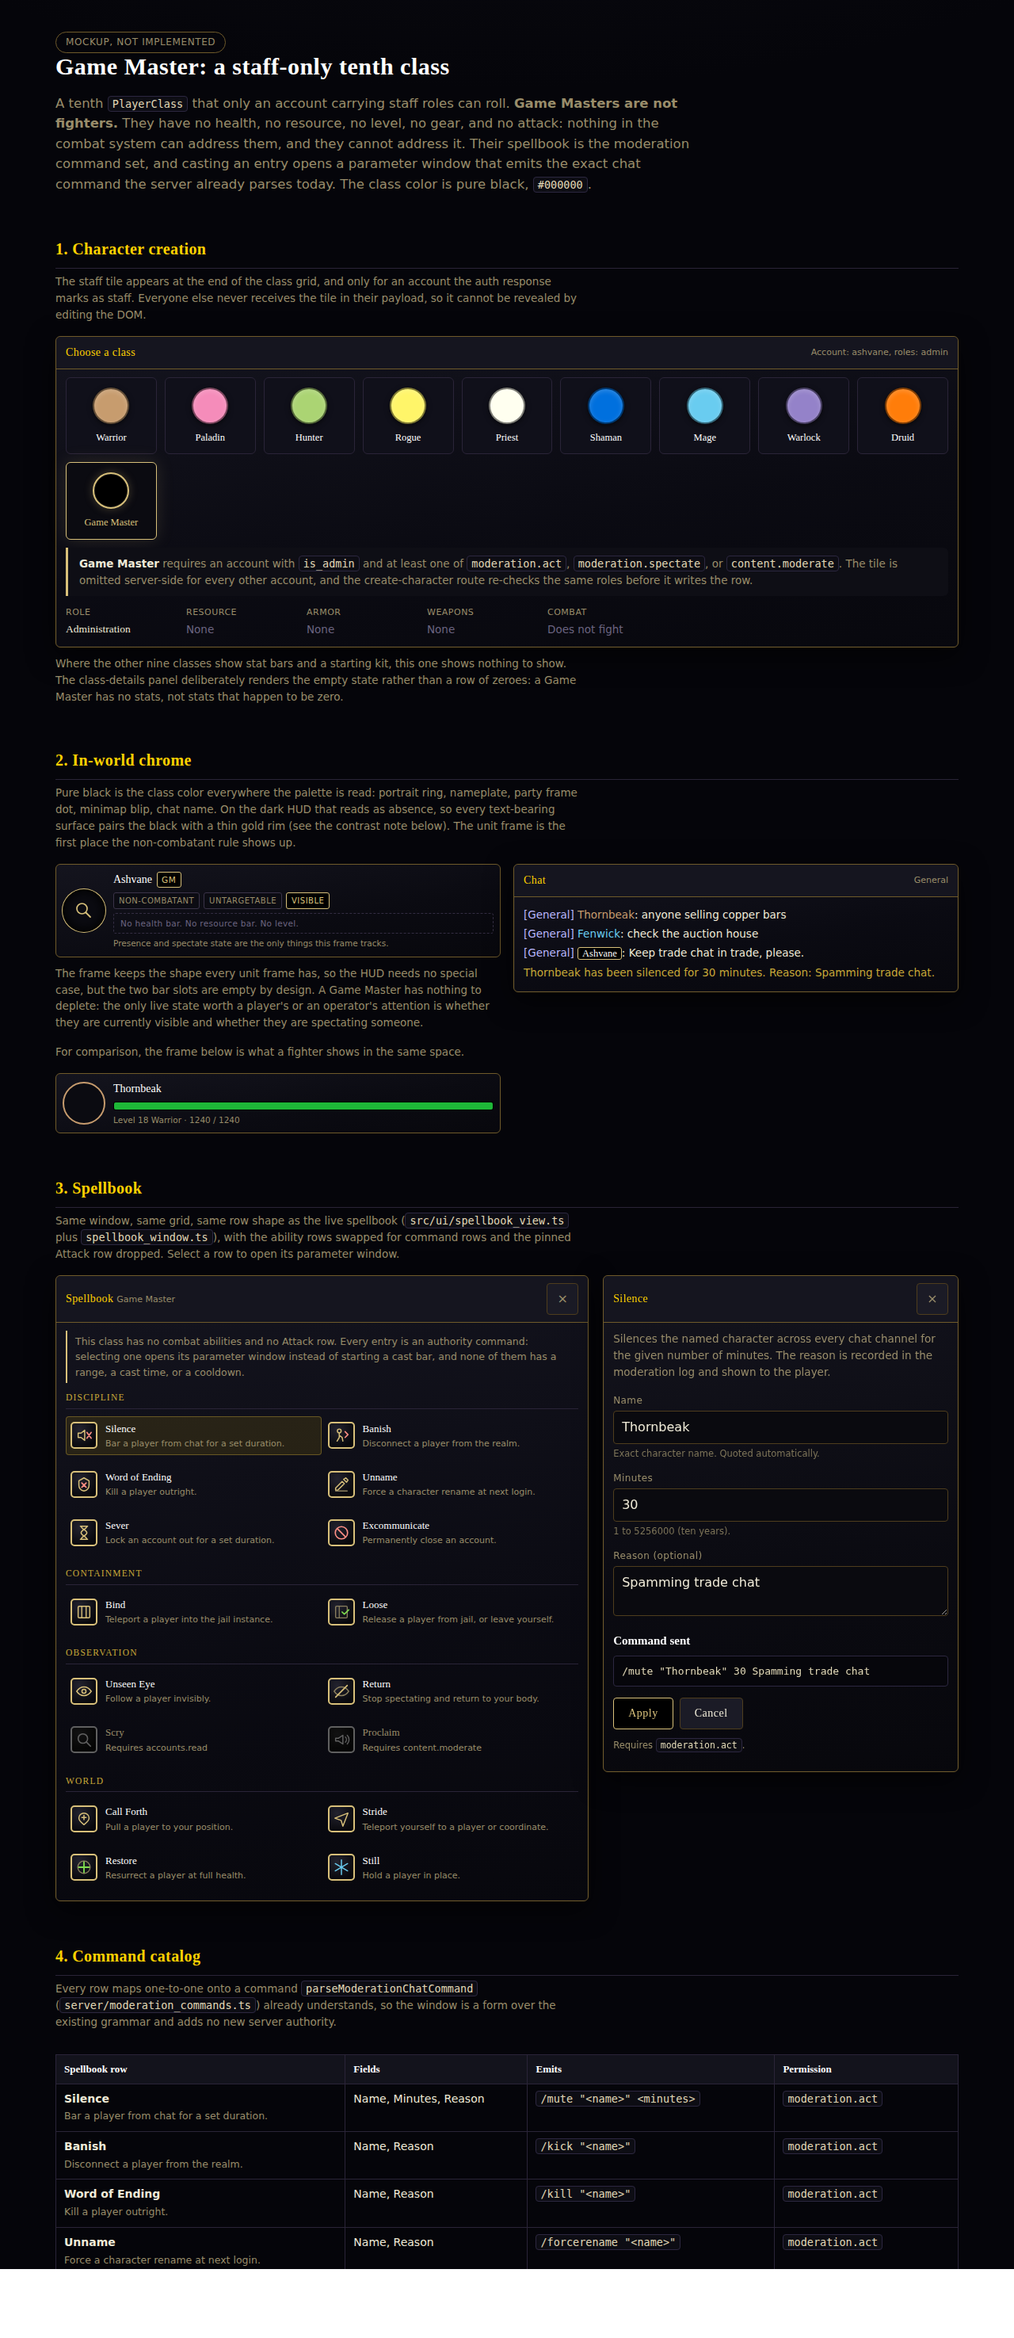
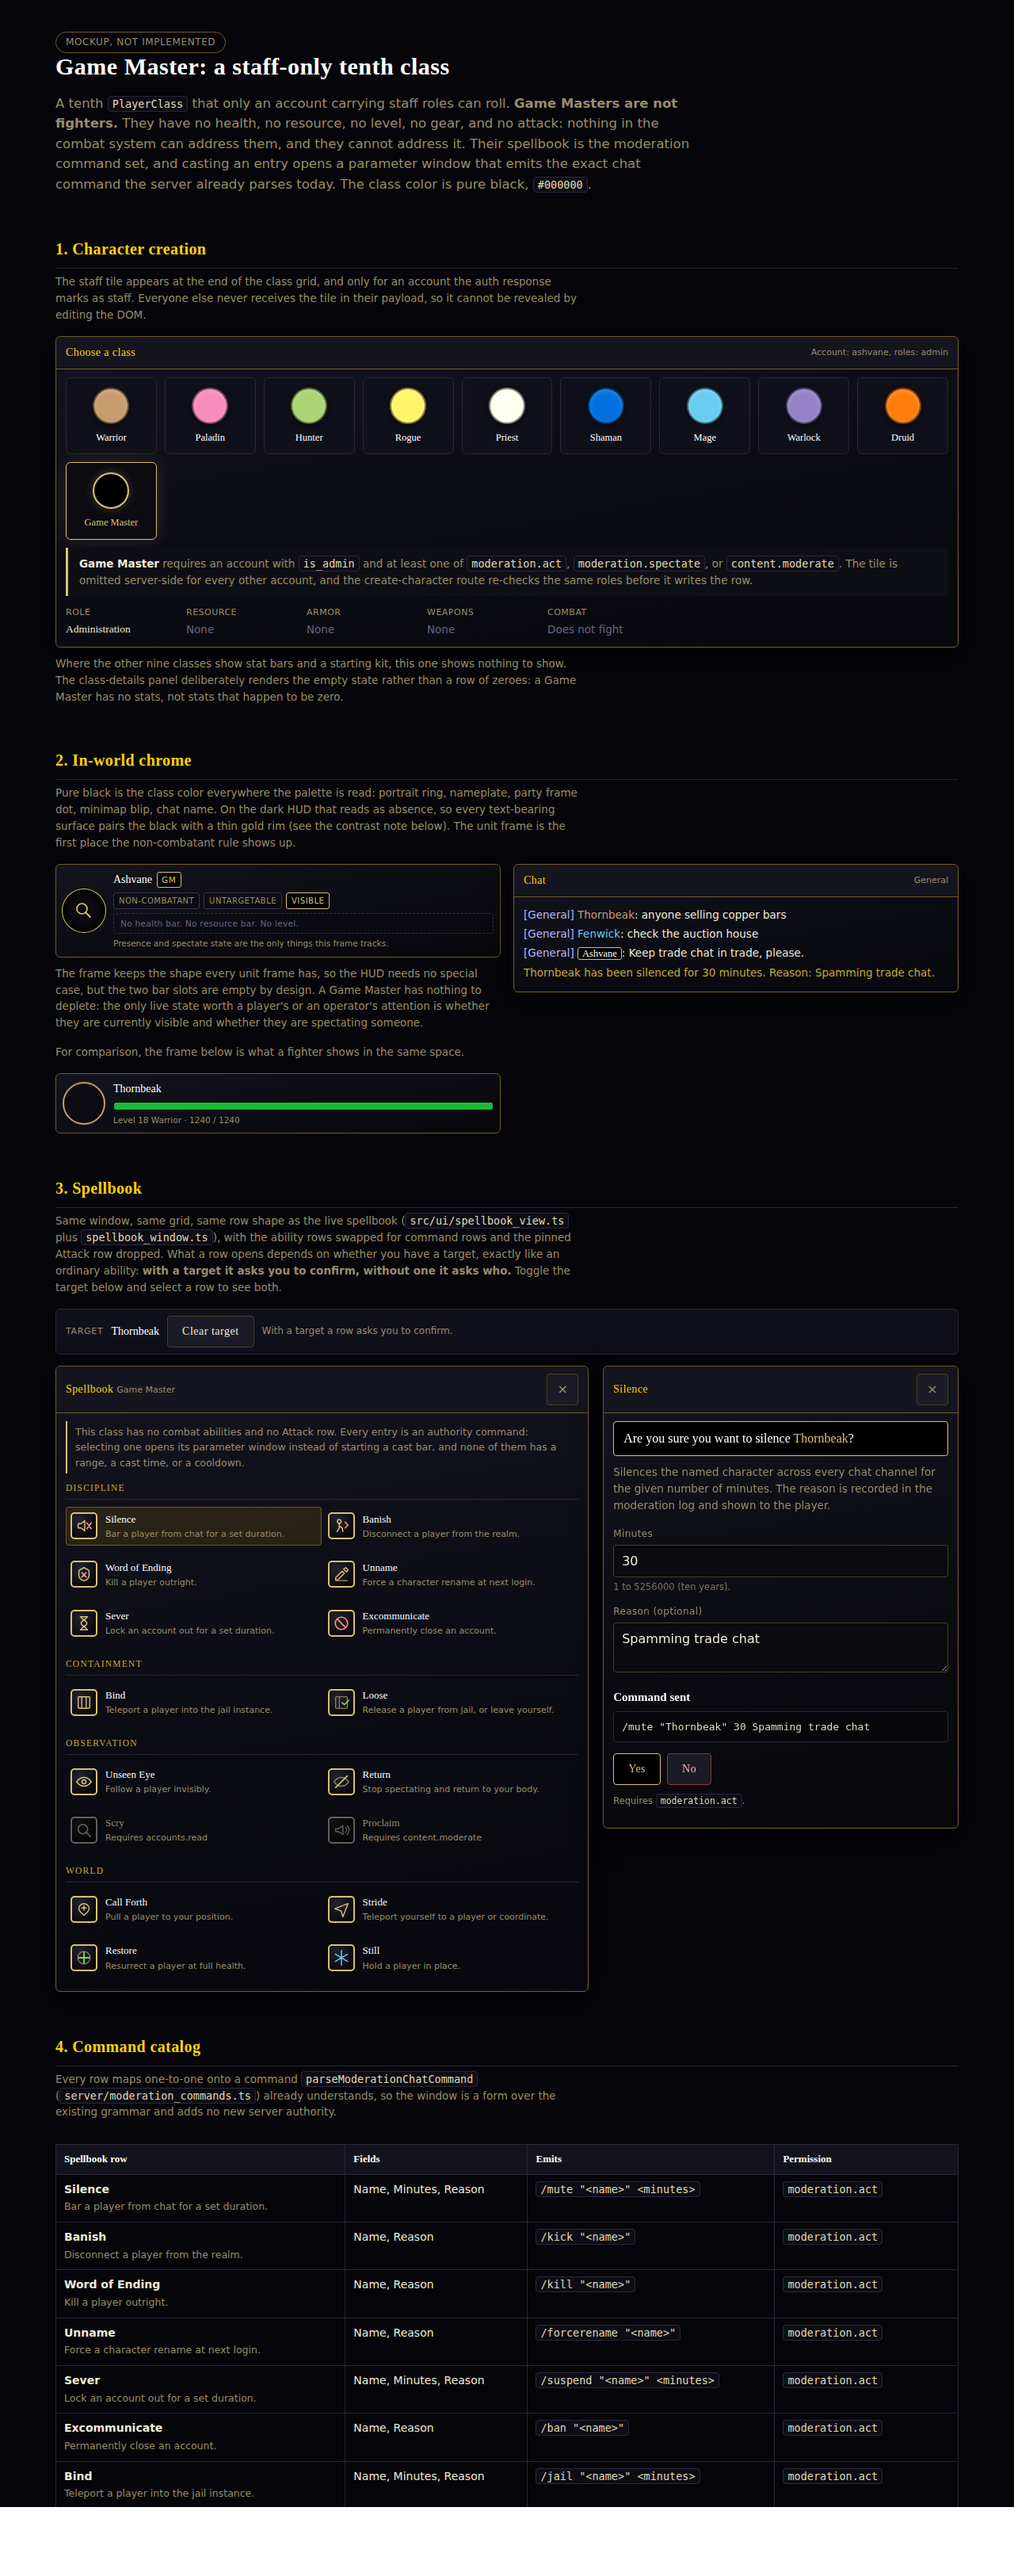
feat(docs): confirm against the target in the Game Master mockup
A command row now reads the target the way an ordinary ability does. With
a player targeted, selecting a row opens the window on a question, "Are
you sure you want to silence Thornbeak?", answered by Yes and No. The
Name field is not rendered at all, since the target already answered it;
rows that still need a duration keep those fields under the question.
With no target the window is the plain form, asking who to act on.

Adds a target strip above the two panels so both flows can be walked
without a running game, and makes the confirm flag on Excommunicate real:
submitting its untargeted form no longer sends, it turns into the same
question naming the player just typed. That flag previously only produced
a line of copy promising a confirmation that nothing implemented.

Rows naming no player (Return, Proclaim) never show the question, since
there is nothing for a target to disambiguate. Records the one case still
worth changing: Return takes no arguments yet still opens a window whose
only content says so, where a zero-argument row should just fire.

Verified in headless Chromium across both flows: the targeted path for
mute, kill, spectate, ban, jail and kick asks the right question and
drops the Name field, No reports the cancel naming the target, the
untargeted path restores the form, and the untargeted ban runs its
two-step confirm before sending. Biome reports zero diagnostics.

Claude-Session: https://claude.ai/code/session_012bGQz4hsnH1YFBGZWnVcjq

diff --git a/docs/design/game-master-class.html b/docs/design/game-master-class.html
@@ -215,8 +215,30 @@
   .spell-row.locked .spell-icon { filter: grayscale(1) brightness(0.5); }
   .spell-row.locked .spell-name { color: var(--color-text-muted); }
 
+  /* the target strip that drives which view a row opens */
+  .target-bar {
+    display: flex; flex-wrap: wrap; align-items: center; gap: 10px;
+    background: #10101a; border: 1px solid #2a2438; border-radius: 6px;
+    padding: 8px 12px; margin: 0 0 14px;
+  }
+  .target-label { font-size: 11px; letter-spacing: 0.7px; text-transform: uppercase; color: var(--color-text-muted); }
+  .target-name { font-family: var(--font-display); font-size: 14px; color: #fff; }
+  .target-name.none { color: #6b6480; font-family: var(--font-ui); font-size: 13px; }
+  .target-hint { font-size: 12px; color: var(--color-text-muted); }
+
   /* the parameter window a command opens */
   .cmd-window { position: sticky; top: 18px; }
+  .confirm-question {
+    font-family: var(--font-display); font-size: 16px; line-height: 1.4; color: #fff;
+    margin: 0 0 10px; padding: 10px 12px; border-radius: 4px;
+    background: var(--gm-black); border: 1px solid var(--gm-rim);
+  }
+  .confirm-question .who { color: var(--gm-rim); }
+  .confirm-question[hidden] { display: none; }
+  .btn.yes { background: var(--gm-black); color: var(--gm-rim); border-color: var(--gm-rim); }
+  .btn.yes:hover { background: #111; color: #fff; }
+  .btn.danger { border-color: #8c3b32; color: #ffb3aa; }
+  .btn.danger:hover { background: #1a0e0d; border-color: var(--color-text-error); color: #fff; }
   .field { margin: 0 0 12px; }
   .field label { display: block; font-size: 12px; letter-spacing: 0.4px; color: var(--color-text-muted); margin-bottom: 4px; }
   .field input, .field textarea, .field select {
@@ -393,8 +415,16 @@
   <p class="cap">
     Same window, same grid, same row shape as the live spellbook (<code>src/ui/spellbook_view.ts</code>
     plus <code>spellbook_window.ts</code>), with the ability rows swapped for command rows and the
-    pinned Attack row dropped. Select a row to open its parameter window.
+    pinned Attack row dropped. What a row opens depends on whether you have a target, exactly like
+    an ordinary ability: <strong>with a target it asks you to confirm, without one it asks who.</strong>
+    Toggle the target below and select a row to see both.
   </p>
+  <div class="target-bar">
+    <span class="target-label">Target</span>
+    <span class="target-name" id="target-name">Thornbeak</span>
+    <button type="button" class="btn" id="target-toggle">Clear target</button>
+    <span class="target-hint" id="target-hint"></span>
+  </div>
   <div class="book-layout">
     <div class="panel">
       <div class="panel-title">
@@ -414,6 +444,7 @@
         <span id="cmd-title">Silence</span>
         <button type="button" class="x-btn" aria-label="Close command window" id="cmd-close">&times;</button>
       </div>
+      <p class="confirm-question" id="cmd-question" hidden></p>
       <p class="cap" id="cmd-desc" style="margin-top:0"></p>
       <form id="cmd-form" novalidate></form>
       <h3 style="margin:6px 0 6px">Command sent</h3>
@@ -495,6 +526,36 @@
       predicate the combat, threat, loot, and queue paths each ask once.</li>
   </ul>
 
+  <h3>Two ways a row opens, decided by the target</h3>
+  <p>
+    A command that acts on a player (any row with a Name field) reads the target the same way an
+    ordinary ability does:
+  </p>
+  <ul>
+    <li><strong>With a target:</strong> the window leads with "Are you sure you want to silence
+      Thornbeak?" and the buttons are Yes and No. The Name field is not rendered at all, because the
+      target already answered it. Rows that still need a duration (Silence, Bind, Sever, Still) keep
+      those fields under the question; everything else is a straight yes or no.</li>
+    <li><strong>With no target:</strong> the window is the plain form, asking who to act on, with
+      Apply and Cancel.</li>
+    <li><strong>Irreversible rows ask either way.</strong> Excommunicate carries a confirm flag, so
+      submitting its untargeted form does not send: it turns into the same question, naming the
+      player just typed. That flag is honored in both paths rather than being copy that promises a
+      confirmation nothing implements.</li>
+  </ul>
+  <p>
+    Rows that name no player (Return, Proclaim) never show the question, since there is nothing for
+    a target to disambiguate.
+  </p>
+  <div class="callout">
+    <p style="margin:0">
+      Still open: Return takes no arguments at all, yet selecting it opens a window whose only content
+      is "This command takes no arguments." A zero-argument row should almost certainly just fire on
+      click like an instant ability, and the window should be reserved for rows that have something
+      to ask.
+    </p>
+  </div>
+
   <h3>Open question: what does the world see</h3>
   <p>
     A Game Master who cannot be attacked and cannot be targeted is close to a ghost, which raises a
@@ -546,6 +607,7 @@
     {
       id: 'mute', cat: 'Discipline', glyph: 'gl-mute', name: 'Silence',
       sub: 'Bar a player from chat for a set duration.',
+      verb: 'silence',
       desc: 'Silences the named character across every chat channel for the given number of minutes. The reason is recorded in the moderation log and shown to the player.',
       perm: 'moderation.act',
       fields: [
@@ -559,6 +621,7 @@
     {
       id: 'kick', cat: 'Discipline', glyph: 'gl-kick', name: 'Banish',
       sub: 'Disconnect a player from the realm.',
+      verb: 'disconnect',
       desc: 'Ends the character session immediately. The account may log back in at once; use Suspend for a timed lockout.',
       perm: 'moderation.act',
       fields: [
@@ -571,6 +634,7 @@
     {
       id: 'kill', cat: 'Discipline', glyph: 'gl-kill', name: 'Word of Ending',
       sub: 'Kill a player outright.',
+      verb: 'strike down',
       desc: 'Sets the named character to zero health at once, bypassing every mitigation path. This is an administrative action, not an attack: it resolves through the moderation path, has no range or line of sight, and never puts the Game Master in combat.',
       perm: 'moderation.act',
       fields: [
@@ -583,6 +647,7 @@
     {
       id: 'forcerename', cat: 'Discipline', glyph: 'gl-rename', name: 'Unname',
       sub: 'Force a character rename at next login.',
+      verb: 'force a rename on',
       desc: 'Flags the character so the next login requires a new name. Used for names that breach the naming policy.',
       perm: 'moderation.act',
       fields: [
@@ -595,6 +660,7 @@
     {
       id: 'suspend', cat: 'Discipline', glyph: 'gl-suspend', name: 'Sever',
       sub: 'Lock an account out for a set duration.',
+      verb: 'suspend',
       desc: 'Suspends the whole account, not just the character, for the given number of minutes. Refused against another staff account.',
       perm: 'moderation.act',
       fields: [
@@ -608,6 +674,7 @@
     {
       id: 'ban', cat: 'Discipline', glyph: 'gl-ban', name: 'Excommunicate',
       sub: 'Permanently close an account.',
+      verb: 'ban',
       desc: 'Permanent account ban. Refused against another staff account, and always confirmed before it is sent.',
       perm: 'moderation.act', confirm: true,
       fields: [
@@ -620,6 +687,7 @@
     {
       id: 'jail', cat: 'Containment', glyph: 'gl-jail', name: 'Bind',
       sub: 'Teleport a player into the jail instance.',
+      verb: 'jail',
       desc: 'Moves the character into the jail instance for a sentence in minutes. There is no indefinite form; the duration is required.',
       perm: 'moderation.act',
       fields: [
@@ -633,6 +701,7 @@
     {
       id: 'unjail', cat: 'Containment', glyph: 'gl-unjail', name: 'Loose',
       sub: 'Release a player from jail, or leave yourself.',
+      verb: 'release',
       desc: 'Releases the named character. Leave the field empty to release yourself, which is how a GM exits their own jail visit.',
       perm: 'moderation.act',
       fields: [
@@ -644,6 +713,7 @@
     {
       id: 'spectate', cat: 'Observation', glyph: 'gl-spectate', name: 'Unseen Eye',
       sub: 'Follow a player invisibly.',
+      verb: 'spectate',
       desc: 'Attaches the camera to the named character. The GM stays invisible and untargetable while spectating.',
       perm: 'moderation.spectate',
       fields: [
@@ -664,6 +734,7 @@
     {
       id: 'whois', cat: 'Observation', glyph: 'gl-whois', name: 'Scry',
       sub: 'Read a player account summary.',
+      verb: 'open the account panel for',
       desc: 'Opens the account panel for the named character: recent sanctions, session history, and linked characters. Read-only.',
       perm: 'accounts.read', locked: true, lockNote: 'Requires accounts.read',
       fields: [
@@ -686,6 +757,7 @@
     {
       id: 'summon', cat: 'World', glyph: 'gl-summon', name: 'Call Forth',
       sub: 'Pull a player to your position.',
+      verb: 'summon',
       desc: 'Teleports the named character to the GM. Used to pull a player out of a stuck position or into a conversation.',
       perm: 'moderation.act', dev: true,
       fields: [
@@ -697,6 +769,7 @@
     {
       id: 'goto', cat: 'World', glyph: 'gl-goto', name: 'Stride',
       sub: 'Teleport yourself to a player or coordinate.',
+      verb: 'teleport to',
       desc: 'Moves the GM to the named character, or to a raw world coordinate when the name is left empty.',
       perm: 'moderation.act', dev: true,
       fields: [
@@ -710,6 +783,7 @@
     {
       id: 'revive', cat: 'World', glyph: 'gl-revive', name: 'Restore',
       sub: 'Resurrect a player at full health.',
+      verb: 'revive',
       desc: 'Revives the named character where they stand, at full health and with no resurrection sickness.',
       perm: 'moderation.act', dev: true,
       fields: [
@@ -721,6 +795,7 @@
     {
       id: 'freeze', cat: 'World', glyph: 'gl-freeze', name: 'Still',
       sub: 'Hold a player in place.',
+      verb: 'freeze',
       desc: 'Freezes the named character until released. Used to stop a player mid-exploit while the log is read.',
       perm: 'moderation.act', dev: true,
       fields: [
@@ -739,6 +814,16 @@
   const previewEl = document.getElementById('cmd-preview');
   const permEl = document.getElementById('cmd-perm');
   const toastEl = document.getElementById('cmd-toast');
+  const questionEl = document.getElementById('cmd-question');
+  const applyBtn = document.getElementById('cmd-apply');
+  const cancelBtn = document.getElementById('cmd-cancel');
+  const targetNameEl = document.getElementById('target-name');
+  const targetToggle = document.getElementById('target-toggle');
+  const targetHintEl = document.getElementById('target-hint');
+  /** The GM's current target, or null when nothing is targeted. */
+  let target = 'Thornbeak';
+  /** Values held awaiting a Yes on an untargeted `confirm` command, else null. */
+  let pending = null;
   let active = COMMANDS[0];
 
   function el(tag, cls, text) {
@@ -747,6 +832,28 @@
     if (text !== undefined) node.textContent = text;
     return node;
   }
+
+  /** Player names are untrusted text; the real HUD escapes them the same way. */
+  function esc(value) {
+    return String(value).replace(/[&<>"']/g, (ch) => (
+      { '&': '&amp;', '<': '&lt;', '>': '&gt;', '"': '&quot;', "'": '&#39;' }[ch]
+    ));
+  }
+
+  function renderTargetBar() {
+    targetNameEl.textContent = target === null ? 'No target' : target;
+    targetNameEl.classList.toggle('none', target === null);
+    targetToggle.textContent = target === null ? 'Target Thornbeak' : 'Clear target';
+    targetHintEl.textContent = target === null
+      ? 'Without a target a row asks who to act on.'
+      : 'With a target a row asks you to confirm.';
+  }
+
+  targetToggle.addEventListener('click', () => {
+    target = target === null ? 'Thornbeak' : null;
+    renderTargetBar();
+    select(active);
+  });
 
   // One heading plus one real <ul> per category, so the list is a list to a screen
   // reader without a role attribute standing in for the element.
@@ -793,13 +900,49 @@
     }
   }
 
+  // In confirm mode the name is not an input: it is the target, so read it from
+  // state rather than the (absent) field.
   function values() {
     const out = {};
     active.fields.forEach((f) => {
+      if (f.key === 'name' && confirmMode()) {
+        out.name = target;
+        return;
+      }
       const input = formEl.querySelector(`[name="${f.key}"]`);
       out[f.key] = input ? input.value.trim() : '';
     });
     return out;
+  }
+
+  /** A command acts on a player when it carries a `name` field. */
+  function actsOnPlayer(cmd) {
+    return cmd.fields.some((f) => f.key === 'name');
+  }
+
+  /** With a target selected, a player-facing command asks you to confirm, not to type. */
+  function confirmMode() {
+    return target !== null && actsOnPlayer(active);
+  }
+
+  /**
+   * Put the window into (or out of) its "answer a question" chrome. `who` is the
+   * name the question names, or null for the plain form. Shared by the two ways a
+   * confirmation is reached: a targeted command, and a `confirm` command whose
+   * typed form has just been submitted.
+   */
+  function setConfirmChrome(who) {
+    const asking = who !== null;
+    questionEl.hidden = !asking;
+    if (asking) {
+      questionEl.innerHTML =
+        `Are you sure you want to ${esc(active.verb)} <span class="who">${esc(who)}</span>?`;
+    }
+    applyBtn.textContent = asking ? 'Yes' : 'Apply';
+    applyBtn.classList.toggle('yes', asking);
+    applyBtn.classList.toggle('primary', !asking);
+    cancelBtn.textContent = asking ? 'No' : 'Cancel';
+    cancelBtn.classList.toggle('danger', asking);
   }
 
   function refreshPreview() {
@@ -831,13 +974,20 @@
     titleEl.textContent = cmd.name;
     descEl.textContent = cmd.desc;
     permEl.innerHTML = 'Requires <code>' + cmd.perm + '</code>' +
-      (cmd.dev ? ', and the world-command set (dev builds only).' : '.') +
-      (cmd.confirm ? ' Always asks for confirmation.' : '');
+      (cmd.dev ? ', and the world-command set (dev builds only).' : '.');
+    pending = null;
+    const confirming = confirmMode();
+    // With a target, the window leads with the question and the buttons answer it.
+    setConfirmChrome(confirming ? target : null);
     formEl.innerHTML = '';
-    if (!cmd.fields.length) {
-      formEl.appendChild(el('p', 'cap', 'This command takes no arguments.'));
+    // The name field is omitted in confirm mode: the target already answered it.
+    const shown = confirming ? cmd.fields.filter((f) => f.key !== 'name') : cmd.fields;
+    if (!shown.length) {
+      formEl.appendChild(el('p', 'cap', confirming
+        ? 'Nothing else to fill in.'
+        : 'This command takes no arguments.'));
     }
-    cmd.fields.forEach((f) => {
+    shown.forEach((f) => {
       const wrap = el('div', 'field');
       const id = `f-${cmd.id}-${f.key}`;
       const label = el('label', null, f.label + (f.required ? '' : ' (optional)'));
@@ -865,8 +1015,8 @@
     refreshPreview();
   }
 
-  document.getElementById('cmd-apply').addEventListener('click', () => {
-    const v = values();
+  applyBtn.addEventListener('click', () => {
+    const v = pending || values();
     const missing = active.fields.filter((f) => f.required && !v[f.key]);
     if (missing.length) {
       toastEl.hidden = false;
@@ -874,11 +1024,30 @@
       toastEl.textContent = `Fill in ${missing.map((f) => f.label).join(', ')} first.`;
       return;
     }
+    // An irreversible command asks the same question even with no target: the
+    // typed name becomes the one the question names.
+    if (!pending && !confirmMode() && active.confirm) {
+      pending = v;
+      setConfirmChrome(v.name);
+      return;
+    }
+    pending = null;
     toastEl.hidden = false;
     toastEl.style.borderLeftColor = '#1eb838';
     toastEl.textContent = `Sent ${active.build(v)}. ${active.done(v)}`;
   });
-  document.getElementById('cmd-cancel').addEventListener('click', () => { toastEl.hidden = true; });
+  // "No" answers the question rather than half-filling a form, so it drops what was
+  // pending and puts the window back the way the row opened it.
+  cancelBtn.addEventListener('click', () => {
+    const who = pending ? pending.name : (confirmMode() ? target : null);
+    pending = null;
+    if (!confirmMode()) setConfirmChrome(null);
+    toastEl.hidden = false;
+    toastEl.style.borderLeftColor = '#6b6480';
+    toastEl.textContent = who
+      ? `Cancelled. Nothing was sent to ${who}.`
+      : 'Cancelled. Nothing was sent.';
+  });
   document.getElementById('cmd-close').addEventListener('click', () => { toastEl.hidden = true; });
 
   function renderCatalog() {
@@ -907,6 +1076,7 @@
 
   renderList();
   renderCatalog();
+  renderTargetBar();
   select(COMMANDS[0]);
 })();
 </script>
